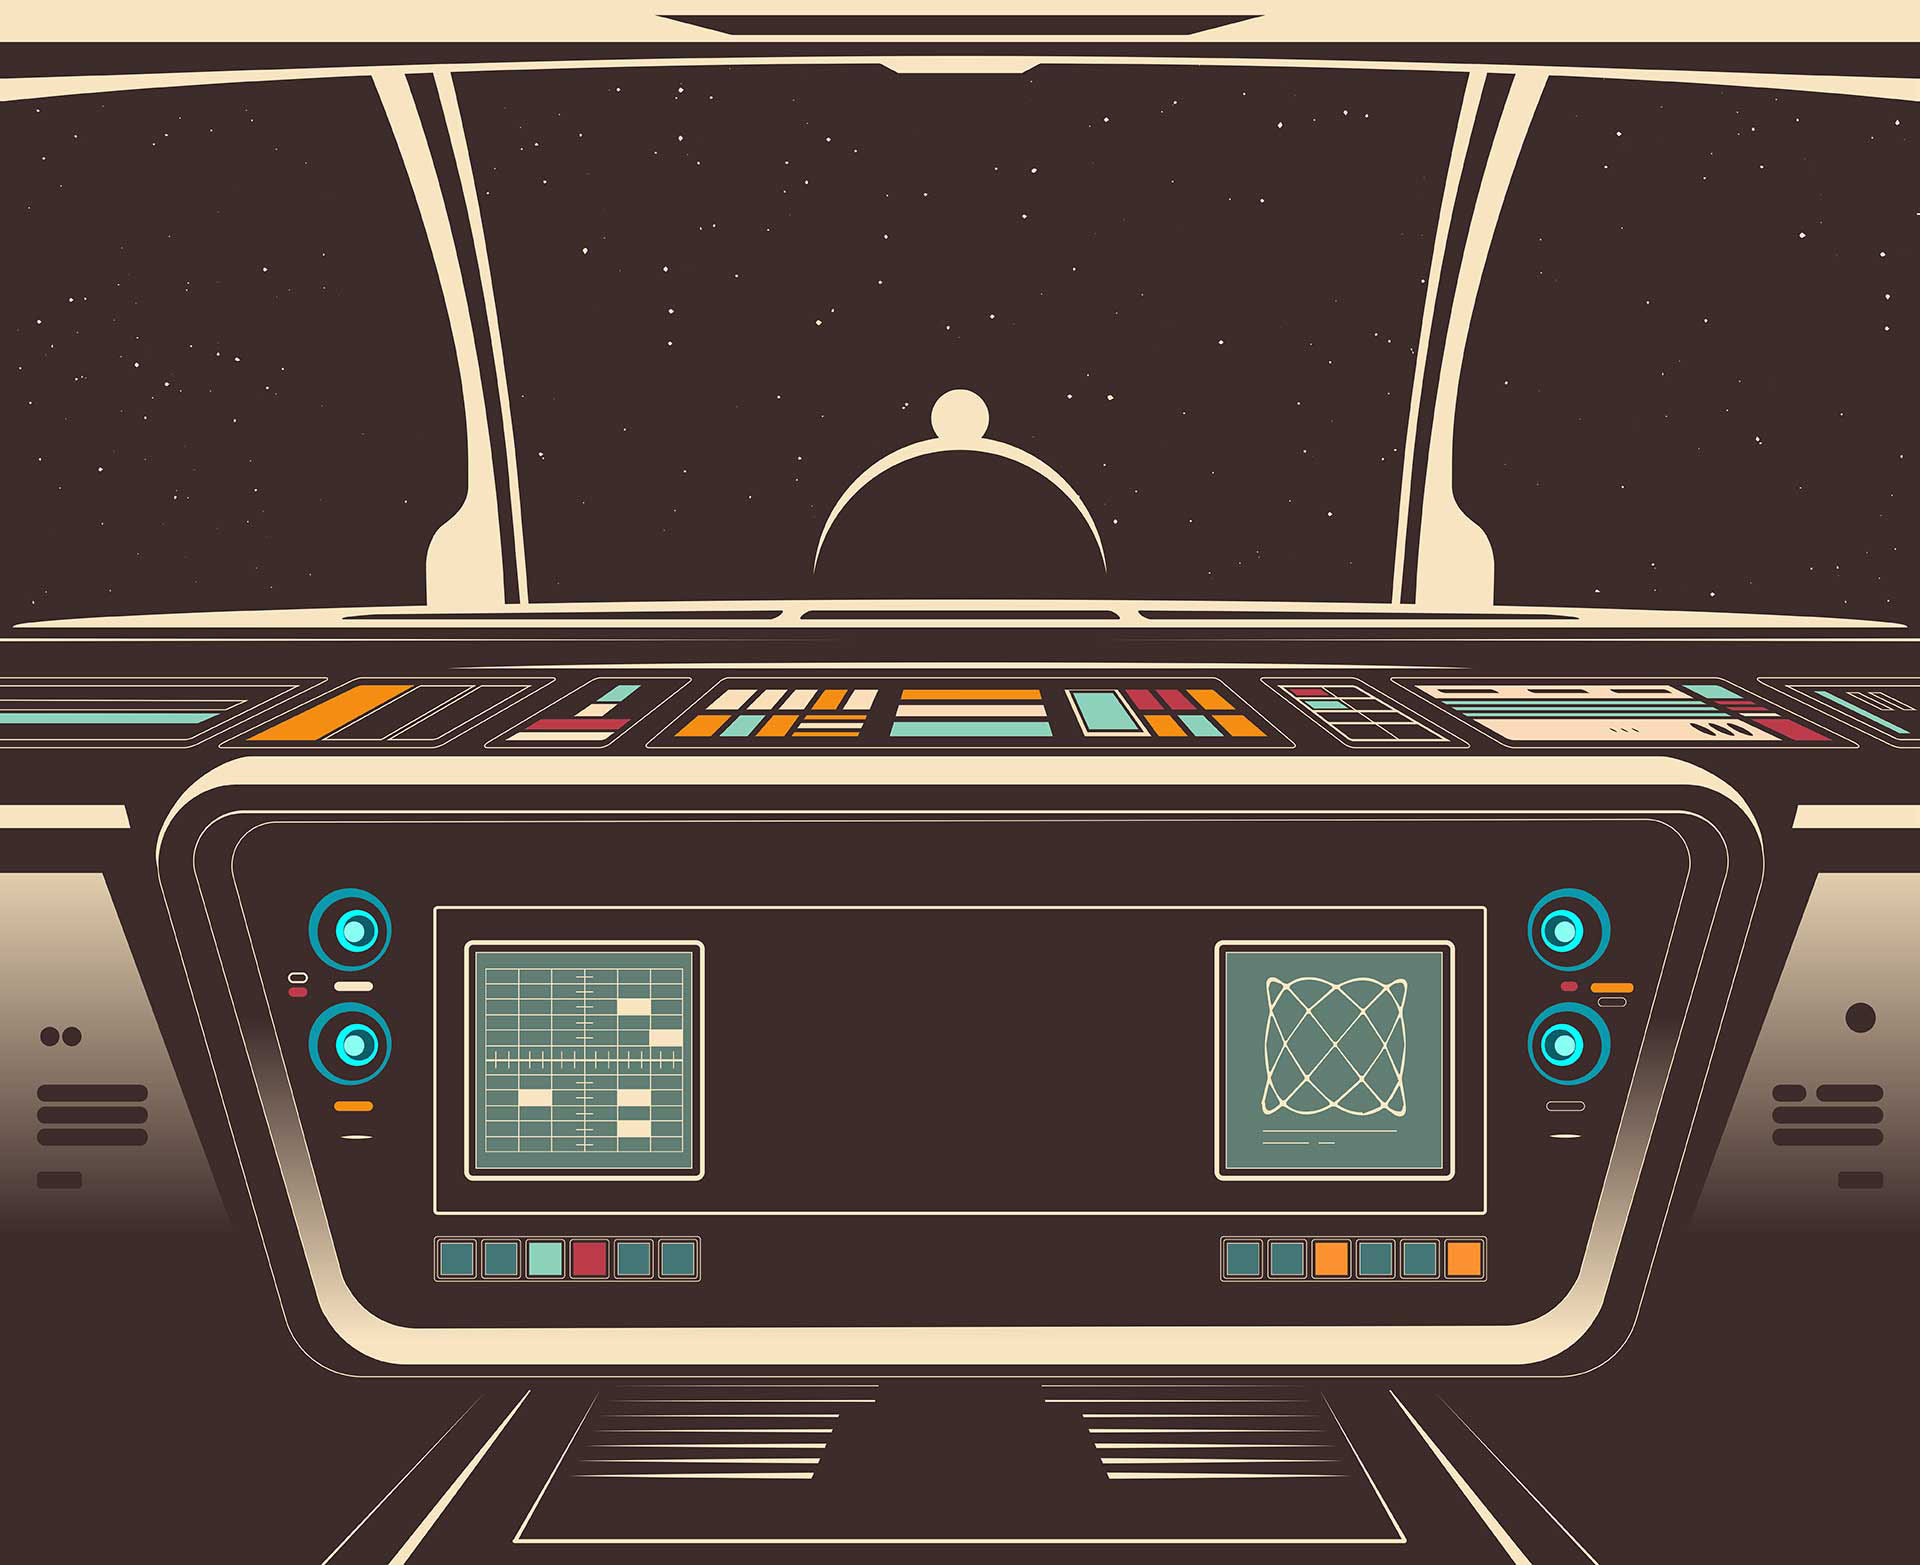
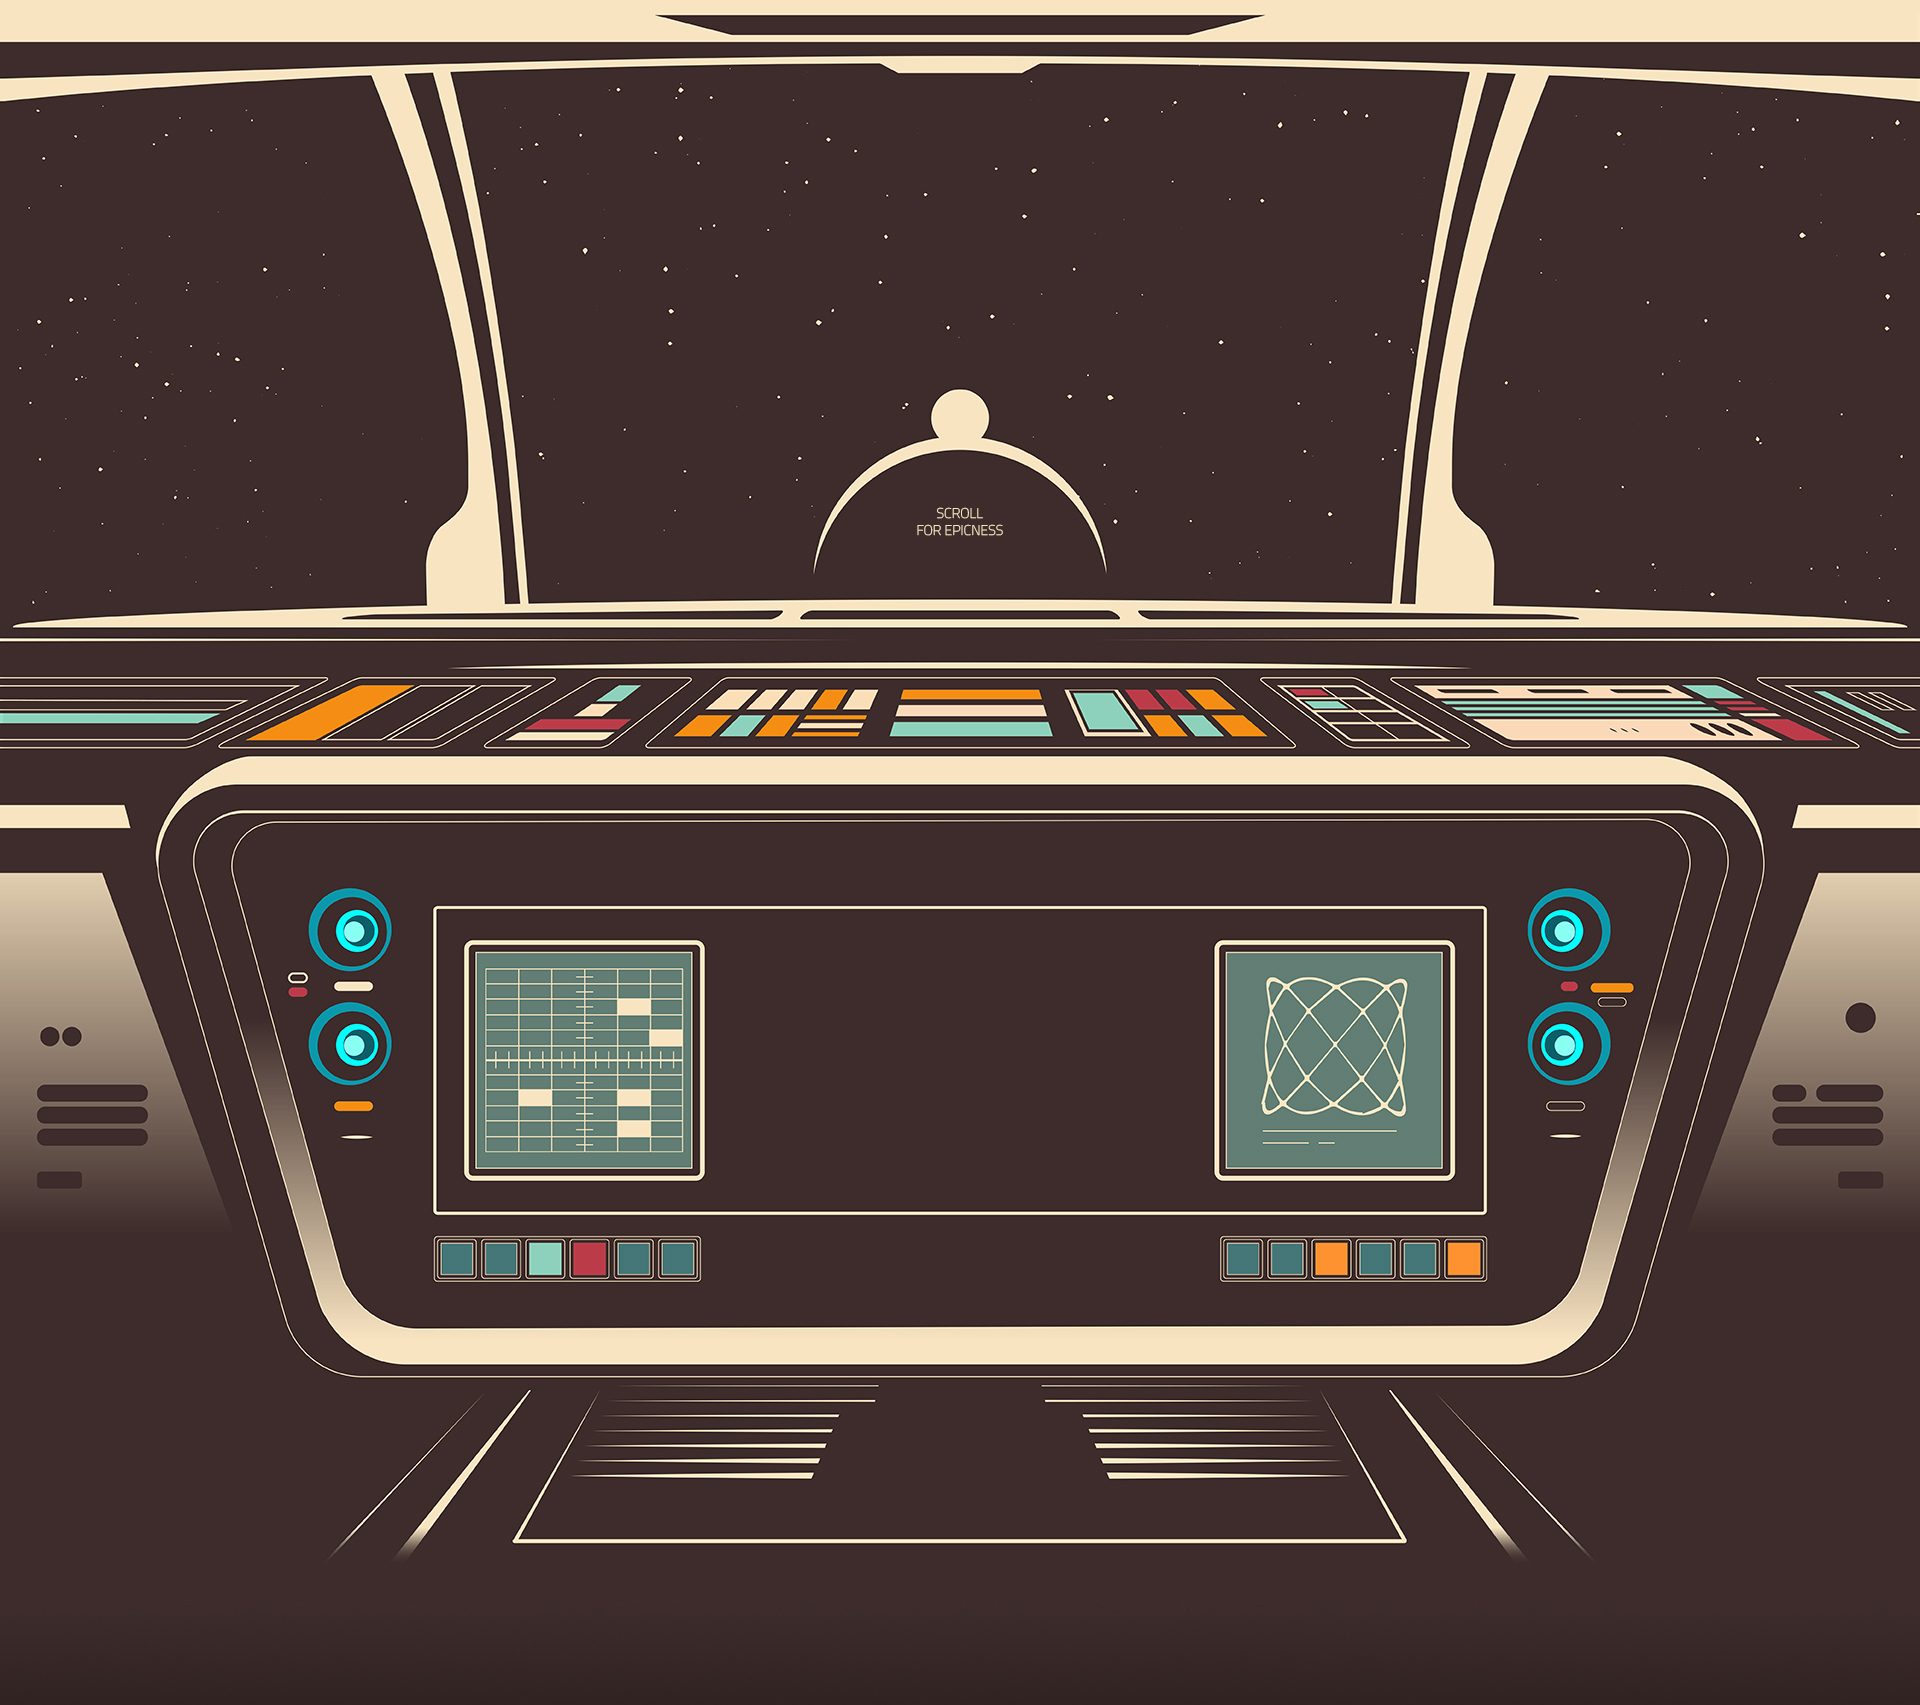
UI improvement

diff --git a/css/style.css b/css/style.css
@@ -64,7 +64,7 @@ h1 {
   border: 2px solid #3d2c2b;
   box-shadow: 0 0 0 3px #f8e4c1, 0 0 0 6px #3d2c2b, 0 0 0 15px #f8e4c1;
   border-radius: 3px;
-  margin: 555px 15px 30px;
+  margin: 270px 15px 30px;
   position: relative; }
   .vidcnt video {
     position: absolute;
@@ -114,22 +114,28 @@ button {
   border: none;
   cursor: pointer;
   position: relative; }
-  button span {
-    display: block;
-    max-width: 100%;
-    transition: background-position .2s; }
+    button span {
+      display: block;
+      max-width: 100%;
+      background-position: 0px 6px;
+      transition: all 0.5s ease-out 0s;      
+      }
     button span:focus, button span:hover {
-      transition: background-position .1s;
-      background-position: 50% 3px; }
+
+      background-position: 0px 3px;
+      transition: all 0.5s ease-out 0s;    
+    }
     button span:active {
-      background-position: 50% 6px; }
+       background-position: 0px 6px; 
+    }
+
   button .up {
-    background: url(../img/randomup.png) no-repeat 50% 0;
+    background: url(../img/randomup.png) no-repeat;
     width: 181px;
     height: 66px;
     margin: 0 auto; }
   button .dn {
-    background: url(../img/randown.png) no-repeat 50% 0;
+    background: url(../img/randown.png) no-repeat;
     width: 281px;
     height: 87px;
     margin: -20px auto 0; }
@@ -160,13 +166,65 @@ input:focus::-webkit-input-placeholder {
 input:focus::-moz-input-placeholder {
   color: rgba(248, 228, 193, 0.1); }
 
+.arrow {
+    background: url(../img/arrow-down.jpg) no-repeat;
+    width: 31px;
+    height: 16px;
+    margin: 268px auto;
+    animation:arrowscale .3s linear infinite alternate;
+    -moz-animation:arrowscale .3s linear infinite alternate; /* Firefox */
+    -webkit-animation:arrowscale .3s linear infinite alternate; /* Safari and Chrome */
+    -o-animation:arrowscale .3s linear infinite; /* Opera */  
+  }
+
+
+@keyframes arrowscale
+{
+  from {
+    transform:scale(1);
+  }
+  to {
+    transform:scale(1.4);
+  }
+}
+
+@-moz-keyframes arrowscale /* Firefox */
+{
+  from {
+    -moz-transform:scale(1);
+  }
+  to {
+    -moz-transform:scale(1.4);
+  }
+}
+
+@-webkit-keyframes arrowscale /* Safari and Chrome */
+{
+  from {
+    -webkit-transform:scale(1);
+  }
+  to {
+    -webkit-transform:scale(1.4);
+  }
+}
+
+@-o-keyframes arrowscale /* Opera */
+{
+  from {
+    -o-transform:scale(1);
+  }
+  to {
+    -o-transform:scale(1.4);
+  }
+}
+
 .label {
   text-transform: uppercase;
   color: #bb3a48;
   font-size: 1.09091 em; }
 
 .share {
-  margin: 20px auto 20px; }
+  margin: 50px auto 20px; }
   .share .fb_iframe_widget {
     vertical-align: top;
     margin: 0px; }

diff --git a/index.html b/index.html
@@ -55,14 +55,8 @@
         <h1>Slow Odyssey <small>2015</small></h1>
         <p class="logo">Kitchen Budapest</p>
 
-        <div class="share">
-          <a href="https://twitter.com/share" class="twitter-share-button" data-text="add some epicness to your slowmotion videos" data-via="kibu" data-count="none" data-hashtags="slowodyssey">Tweet</a>
-          <script>!function(d,s,id){var js,fjs=d.getElementsByTagName(s)[0],p=/^http:/.test(d.location)?'http':'https';if(!d.getElementById(id)){js=d.createElement(s);js.id=id;js.src=p+'://platform.twitter.com/widgets.js';fjs.parentNode.insertBefore(js,fjs);}}(document, 'script', 'twitter-wjs');</script>
-          <div class="fb-like" data-layout="button" data-action="like" data-show-faces="true" data-share="true"></div>
-        </div>
-
-        <h2>Scroll for epicness</h2>
-
+        <!--- h2>Scroll for epicness</h2 -->
+        <div class="arrow"></div>
         <div class="vidcnt">
         <span class="hal" id="error"></span>
         <video src="" id="vid" loop="true" muted="true" poster="img/hal.png"></video>
@@ -73,6 +67,12 @@
         <button id="random"><span class="up"></span><span class="dn"></span></button>
         <p class="label">random #slowmotion trip</p>
 
+        <div class="share">
+          <a href="https://twitter.com/share" class="twitter-share-button" data-text="add some epicness to your slowmotion videos" data-via="kibu" data-count="none" data-hashtags="slowodyssey">Tweet</a>
+          <script>!function(d,s,id){var js,fjs=d.getElementsByTagName(s)[0],p=/^http:/.test(d.location)?'http':'https';if(!d.getElementById(id)){js=d.createElement(s);js.id=id;js.src=p+'://platform.twitter.com/widgets.js';fjs.parentNode.insertBefore(js,fjs);}}(document, 'script', 'twitter-wjs');</script>
+          <div class="fb-like" data-layout="button" data-action="like" data-show-faces="true" data-share="true"></div>
+        </div>
+
     </div>
 
 
@@ -81,6 +81,16 @@
 
 <script src='https://cdnjs.cloudflare.com/ajax/libs/jquery/2.1.3/jquery.min.js'></script>
 <script src="js/index.js"></script>
+
+<script>
+/*$("div .arrow").ready(function() {
+    var duration = 1400;
+    $msg = $(this);
+    //syntax is: animation-name animation-duration[ animation-timing-function][ animation-delay][ animation-iteration-count][ animation-direction]
+    $msg.css("animation", "arrowscale " + duration + "ms ease infinite alternate");
+});*/
+</script>
+
 <script>
 (function(i,s,o,g,r,a,m){i['GoogleAnalyticsObject']=r;i[r]=i[r]||function(){
 (i[r].q=i[r].q||[]).push(arguments)},i[r].l=1*new Date();a=s.createElement(o),
